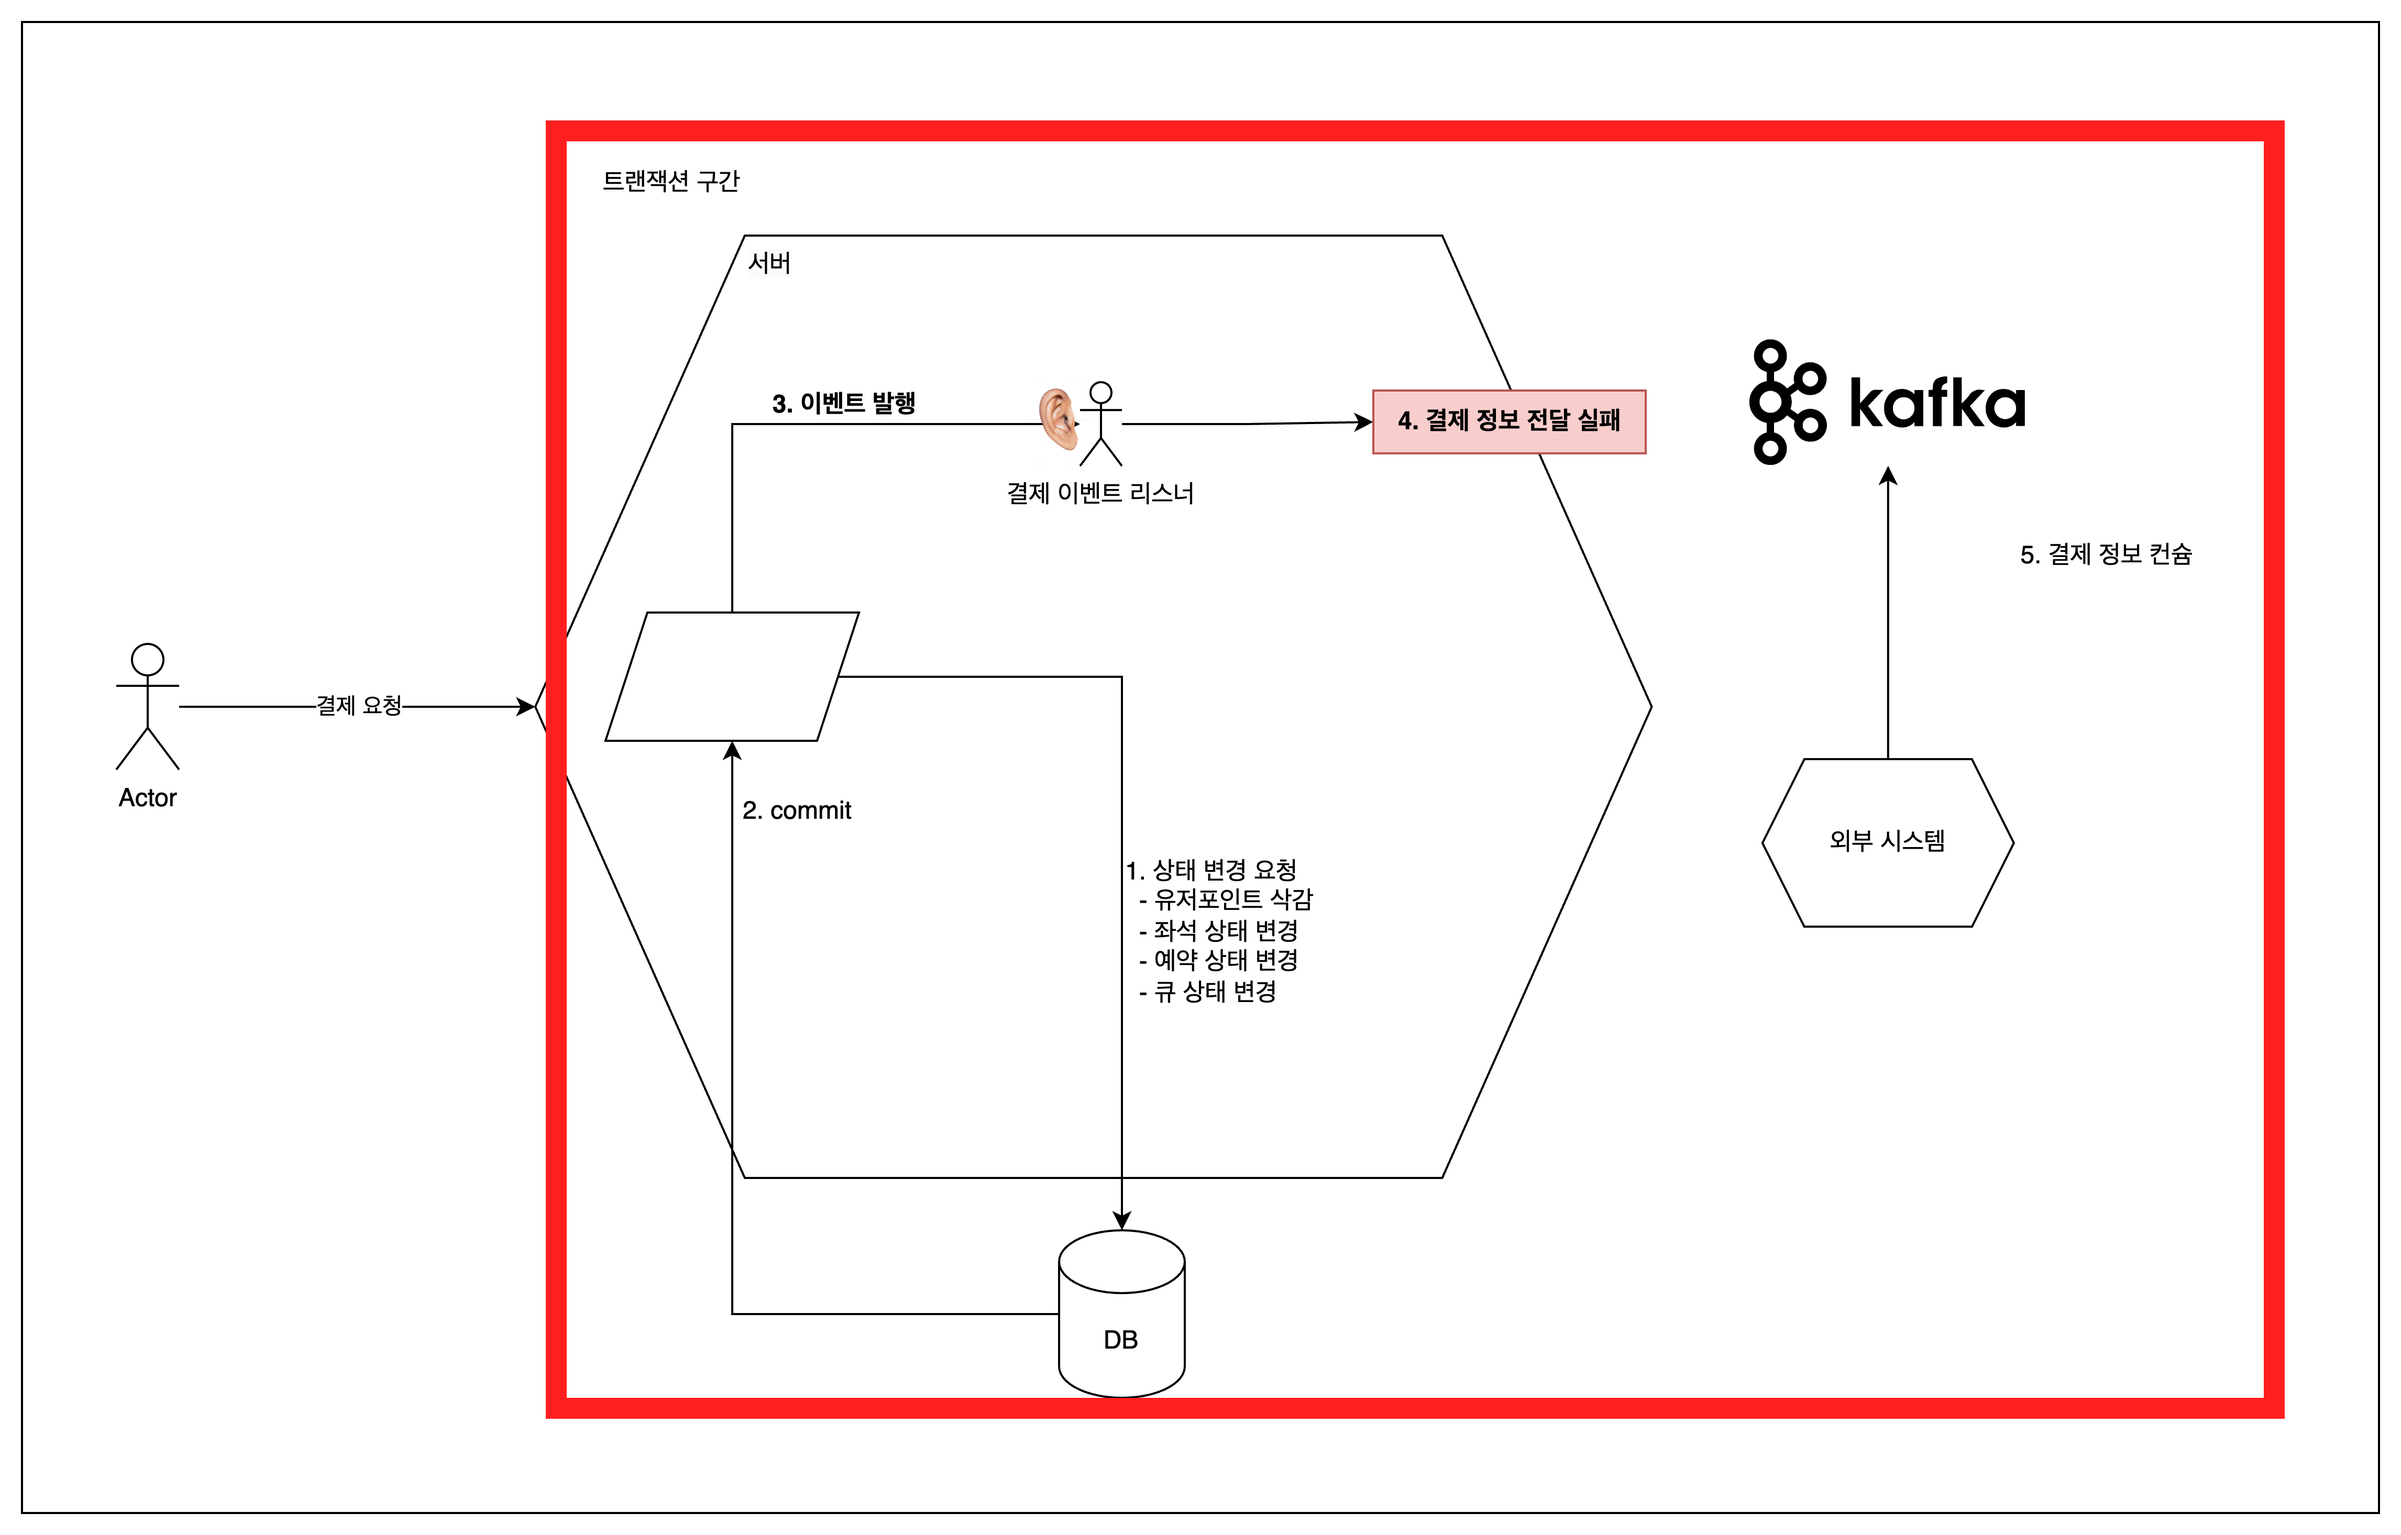
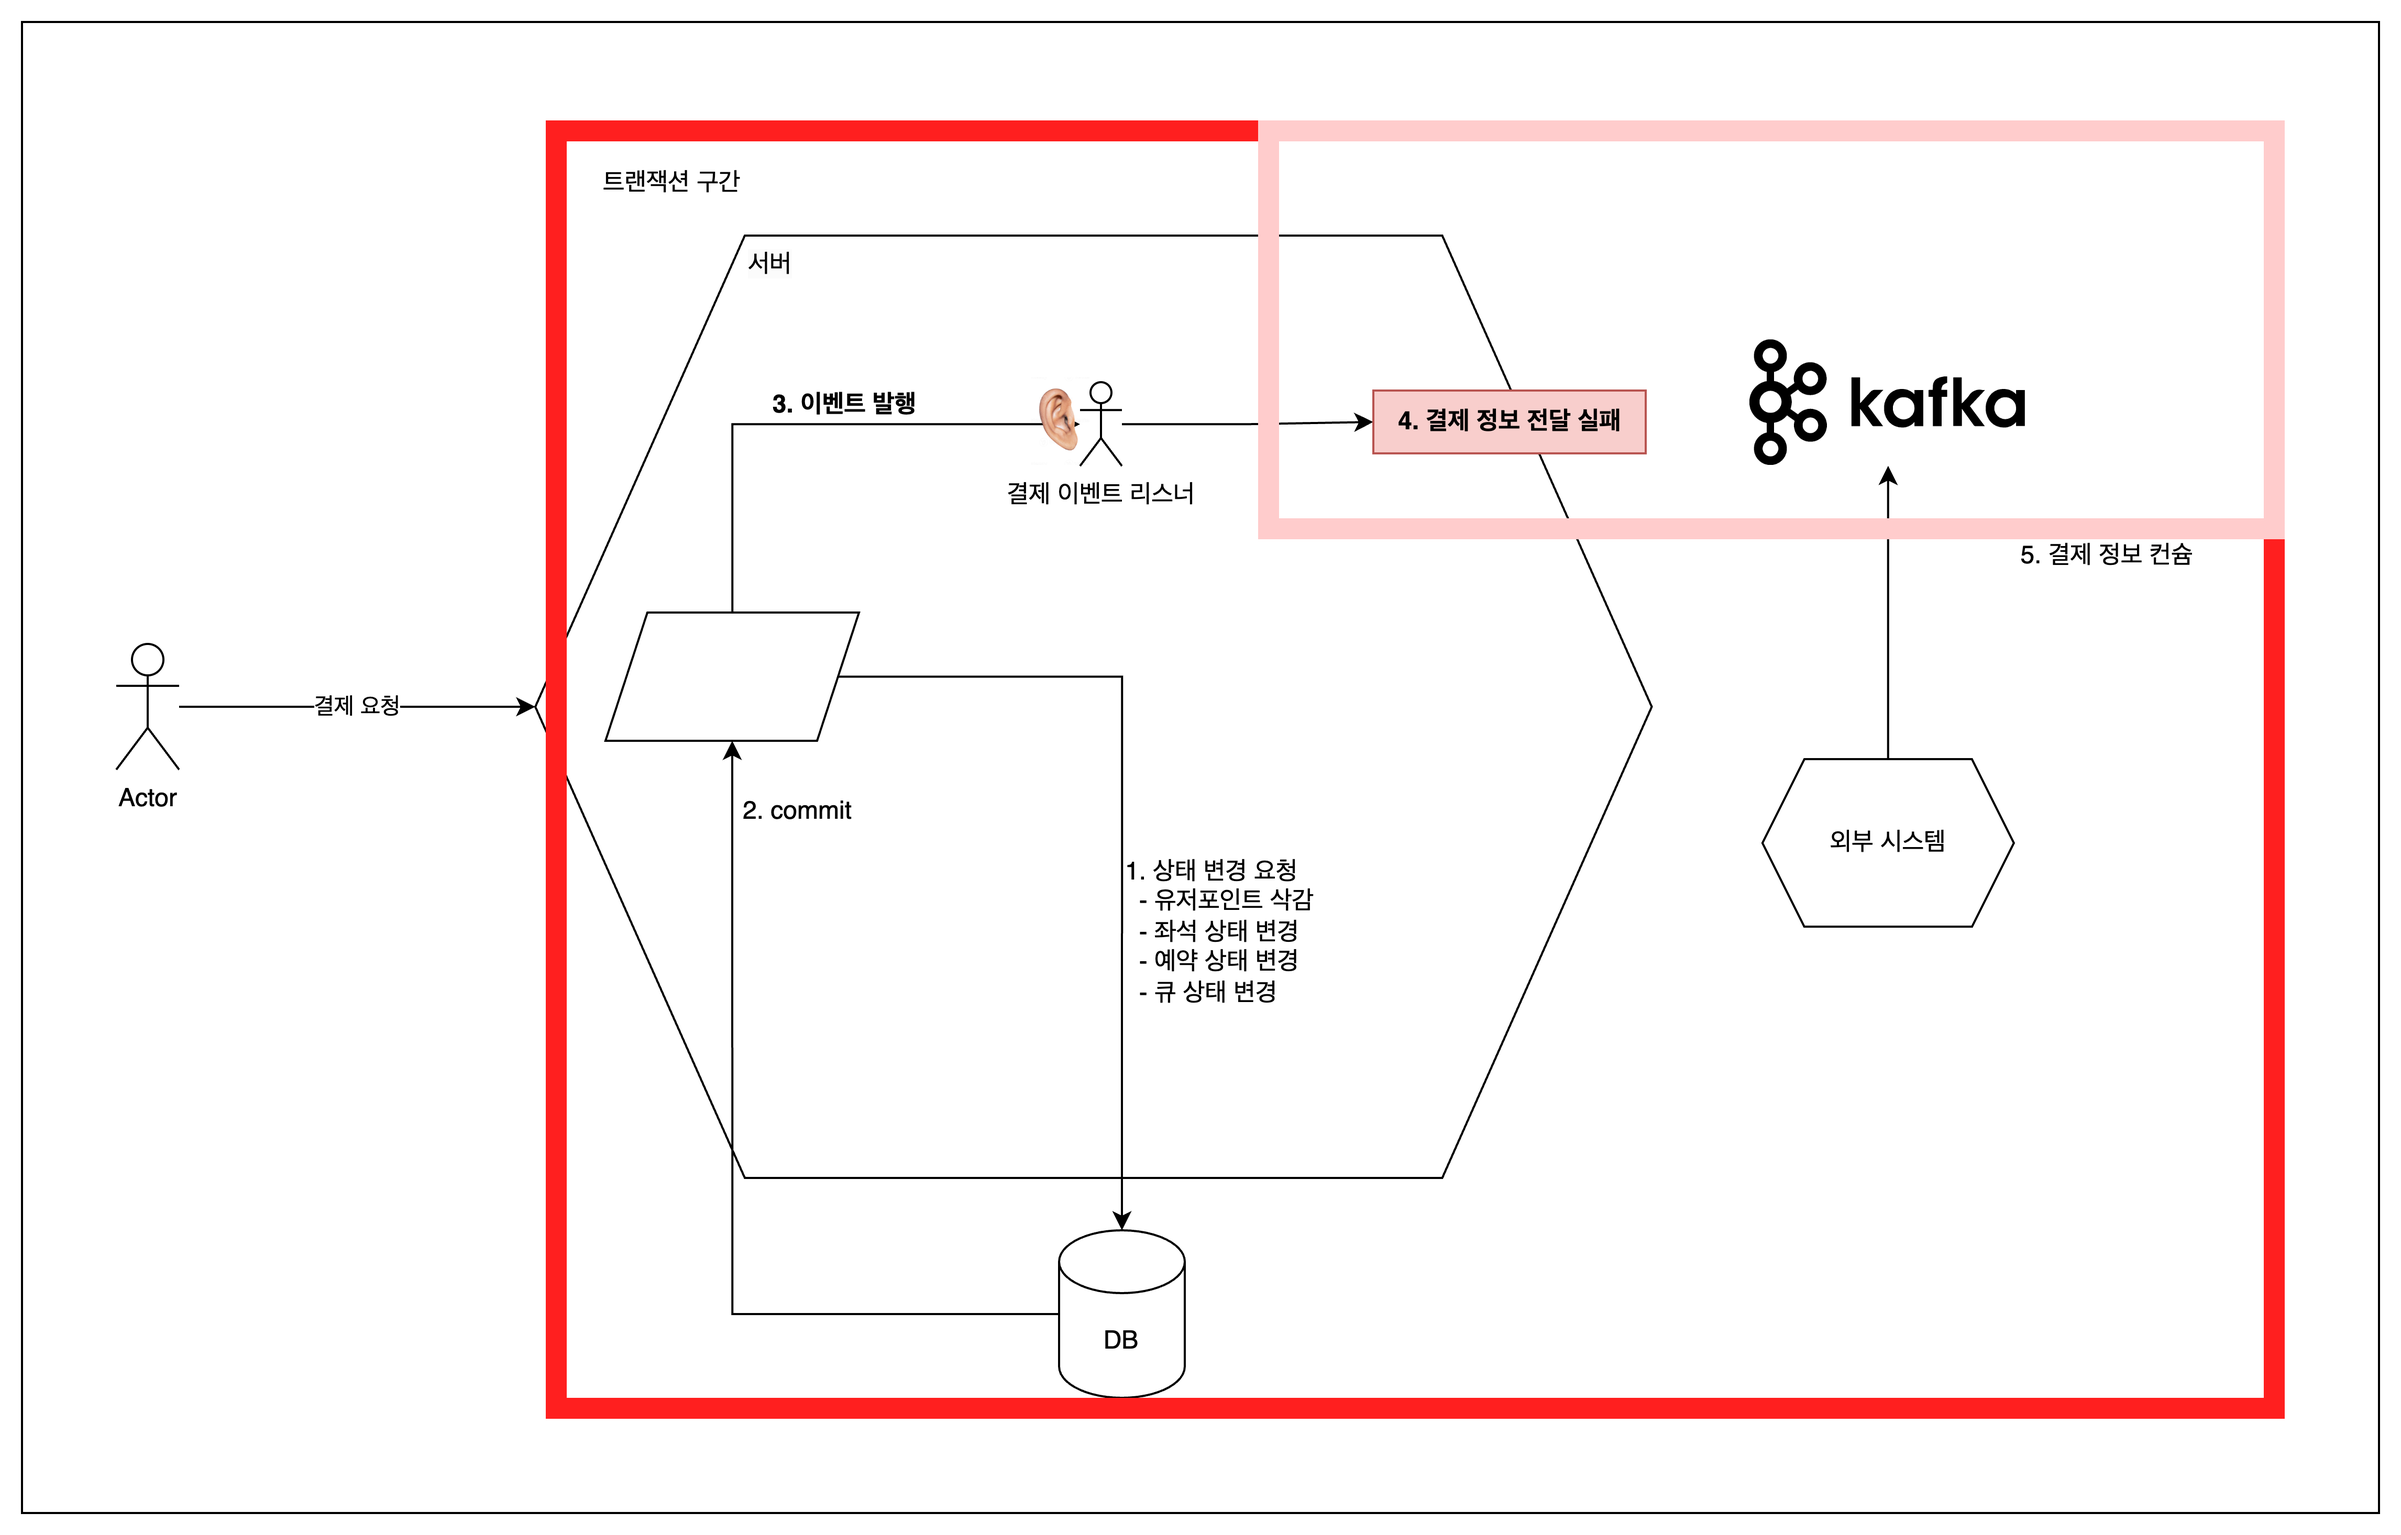
docs: 트랜잭셔널 아웃박스 설명 추가

Changed region(s): [[0.4991, 0.0621, 0.9671, 0.3724], [0.1248, 0.4345, 0.156, 0.4656]]

diff --git a/docs/markdown/10. 9주차-Transactional OutBox Pattern.md b/docs/markdown/10. 9주차-Transactional OutBox Pattern.md
@@ -55,4 +55,13 @@
 
 
 ## 2. 문제 해결 - 트랜잭션 아웃박스 이용  
+![10.5](https://github.com/hpp-backend-15/java-concert-joonhyeokyang/blob/step18/docs/img/10-5.png)
 
+우리가 원하는건 다음 그림이다.
+
+1. 도메인 로직이 아닌 외부 결제 정보 전송은 분리하되,
+2. 같은 트랜잭션처럼 외부 결제 정보 전송을 보장하도록! (그러나, 외부 결제 정보 전송 실패가 결제 로직이 실패가 되진 않도록!)
+
+이때, **트랜잭셔널 아웃 박스 패턴 (Transactional Outbox Pattern)**을 이용한다.
+
+Outbox는 메일함 같은 의미라고 생각해보면, 트랜잭션을 이용하는 메일함 하나 두자! 라고 생각해보자!
